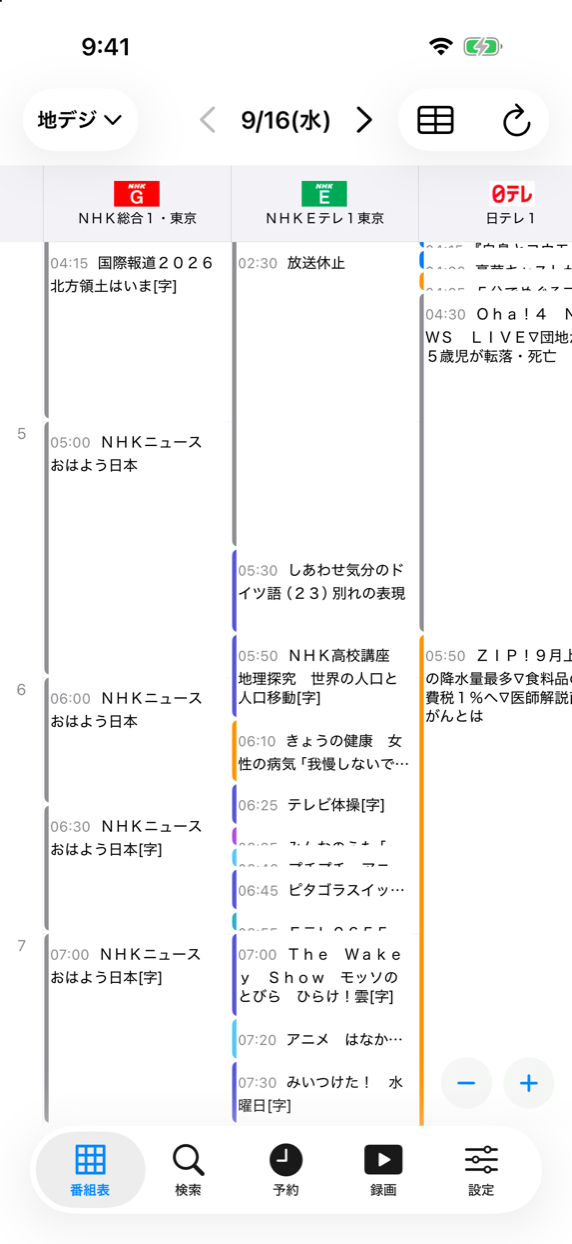
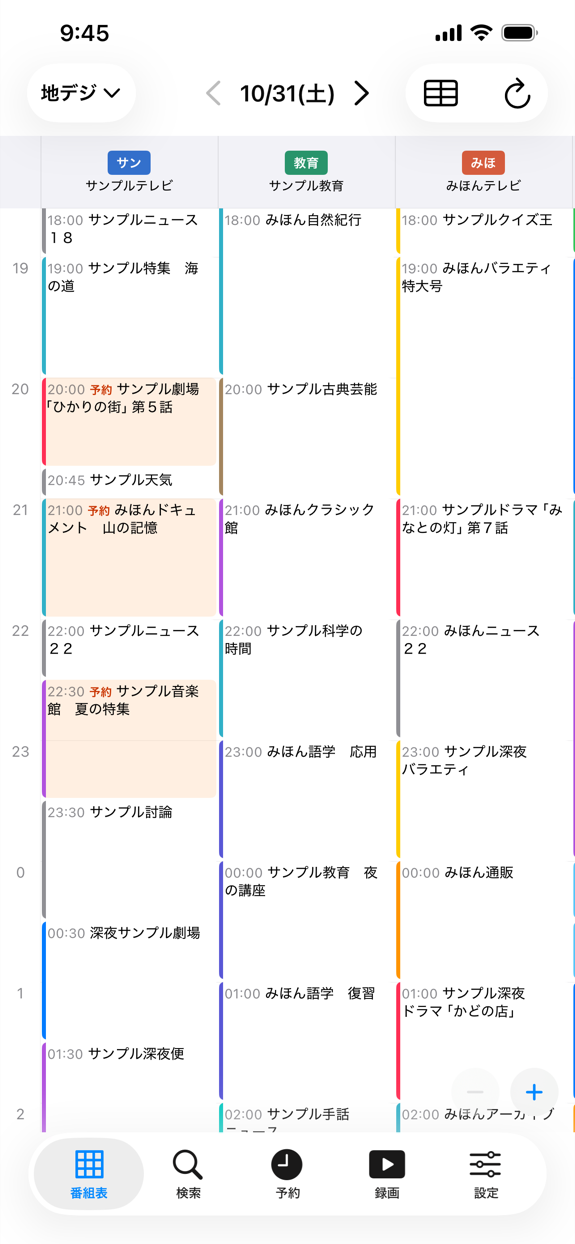
Take the README's pictures from the app's sample data, and show the reservations where the PWA was

diff --git a/README.md b/README.md
@@ -30,11 +30,11 @@ cd app && xcodegen generate && open BDBridge.xcodeproj
 
 ## 画面
 
-| iOS アプリ（番組表・リスト） | iOS アプリ（番組表・表） | PWA（番組表・表） |
+| iOS アプリ（番組表・リスト） | iOS アプリ（番組表・表） | iOS アプリ（予約） |
 |---|---|---|
-| <img src="docs/screenshots/ios-guide-list.png" alt="iOS アプリの番組表（リストモード）" width="240"> | <img src="docs/screenshots/ios-guide-grid.png" alt="iOS アプリの番組表（表モード）" width="240"> | <img src="docs/screenshots/guide-grid.png" alt="PWA の番組表（表モード）" width="240"> |
+| <img src="docs/screenshots/ios-guide-list.png" alt="iOS アプリの番組表（リストモード）" width="240"> | <img src="docs/screenshots/ios-guide-grid.png" alt="iOS アプリの番組表（表モード）" width="240"> | <img src="docs/screenshots/ios-reservations.png" alt="iOS アプリの予約一覧" width="240"> |
 
-表モードは横にチャンネル、縦に時間で、ピンチで時間軸を伸縮できます。番組表のデータと局ロゴはレコーダー（ヘルパーを使う家ではテレビ）が受信したもので、このリポジトリには含まれていません。ロゴを持たない局は名前だけで表示します（レコーダー自身の画面もそうなります）。
+画像はアプリのサンプルデータで撮ったもので、局も番組も架空です。表モードは横にチャンネル、縦に時間で、ピンチで時間軸を伸縮できます。番組表のデータと局ロゴはレコーダー（ヘルパーを使う家ではテレビ）が受信したもので、このリポジトリには含まれていません。ロゴを持たない局は名前だけで表示します（レコーダー自身の画面もそうなります）。
 
 ## 使い方
 
